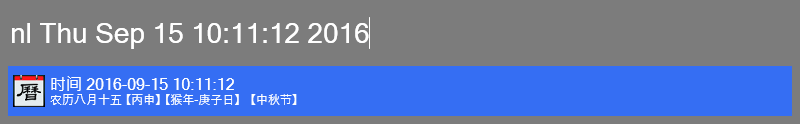
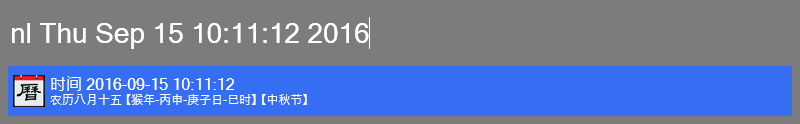
展示优化

Changed region(s): [[0.1562, 0.75, 0.4062, 0.8468]]

diff --git a/main.py b/main.py
@@ -30,9 +30,9 @@ class ChineseCalendar(Wox):
             result.append({
                 "Title": '时间 {} {}'.format(date[0: 11] if notime else date,
                                            '【' + jieri + '】' if jieri else ""),
-                "SubTitle": '{} 【{}】 【{}年-{}日】 {} {} {}'.format(ln.ln_date_str(), ln.gz_year(), ln.sx_year(),
+                "SubTitle": '{} 【{}年-{}-{}日{}】{} {}'.format(ln.ln_date_str(), ln.sx_year(), ln.gz_year(), 
                                                                 ln.gz_day(),
-                                                                (ln.gz_hour() + "时") if notime else "",
+                                                                ("-" + ln.gz_hour() + "时") if not notime else "",
                                                                 '【' + jieqi + '】' if jieqi else "",
                                                                 '【' + jieri_lu + '】' if jieri_lu else ""),
                 "IcoPath": "Images/app.png",
